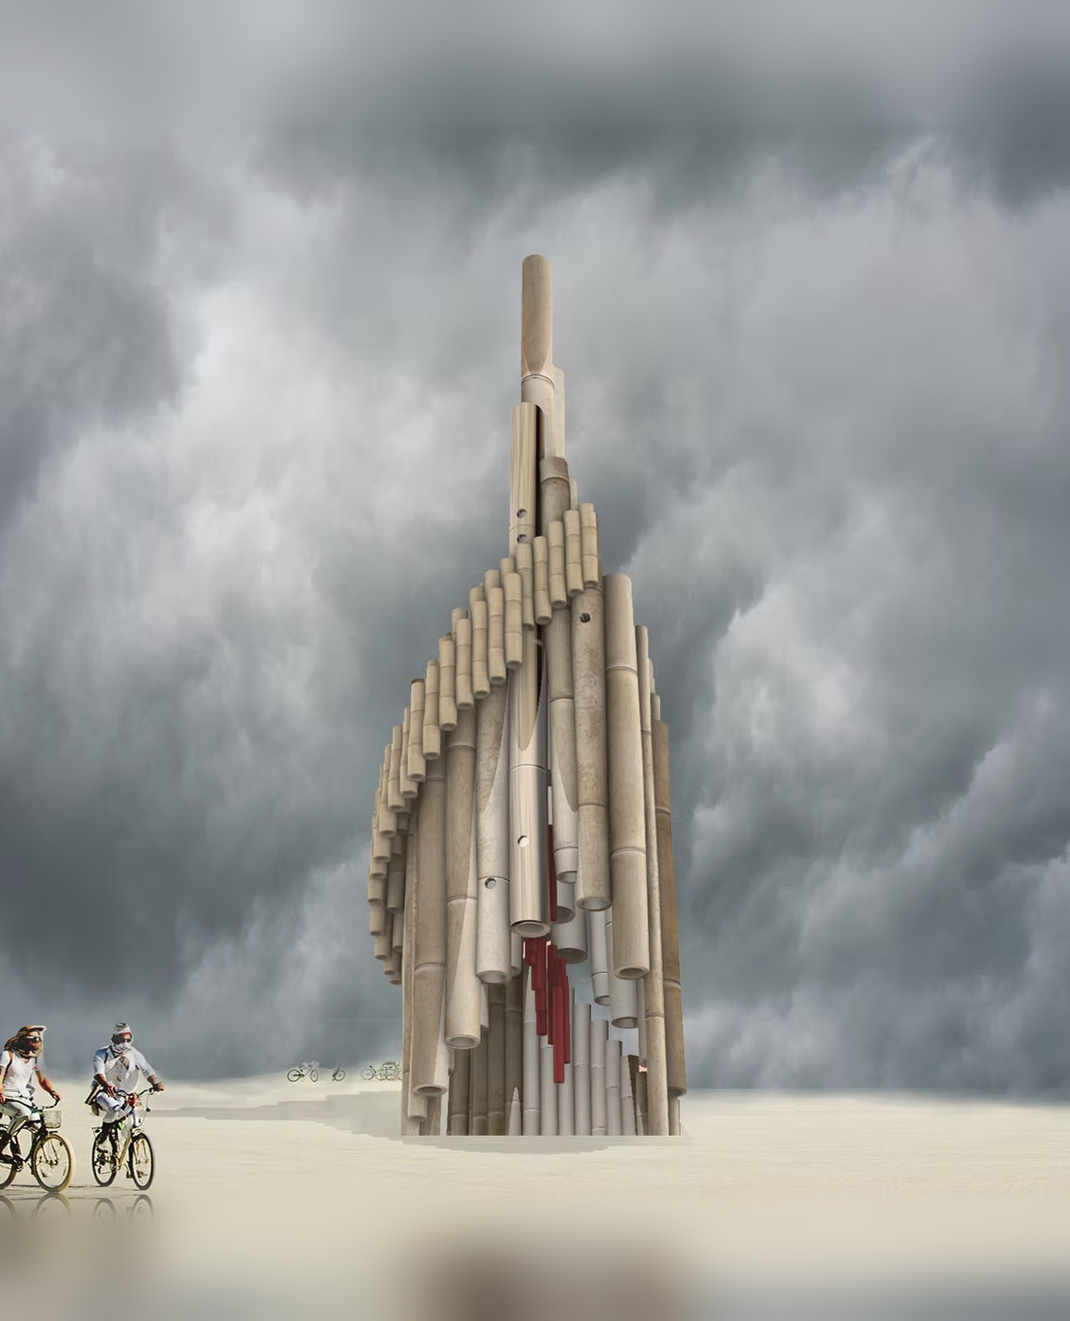
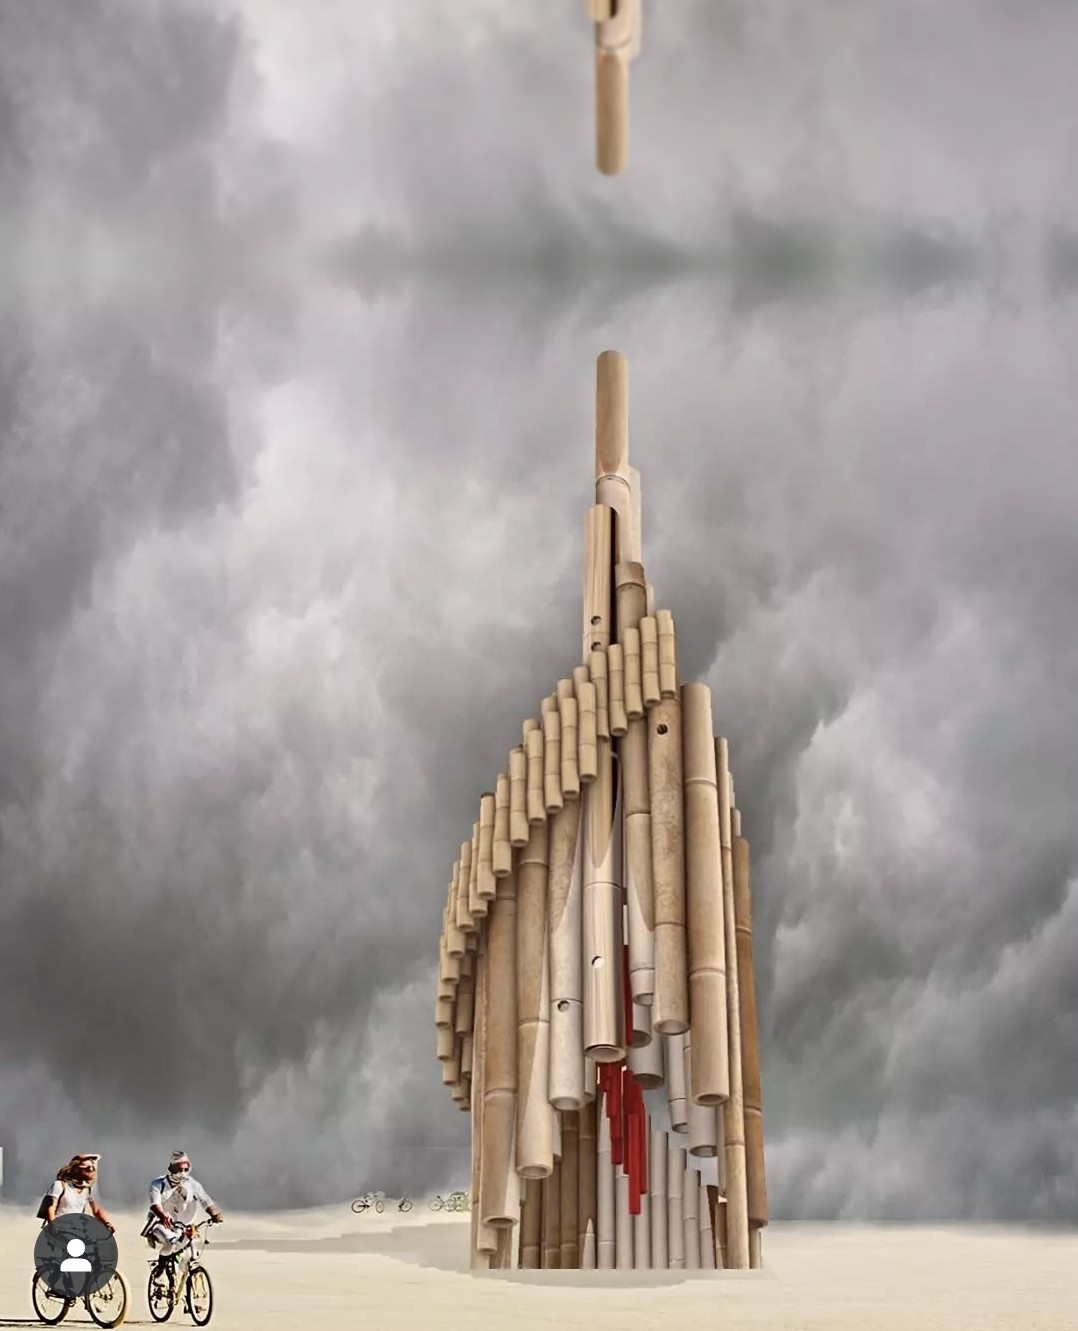
edddits

diff --git a/style.css b/style.css
@@ -2381,3 +2381,50 @@ main.about.project.print .about-text > .full-size-btn { display: block; width: f
 
 /* LATEST 157: Belgrade cover gets the same torn edge */
 .apage img[src="images/belgrade-library-renovation-cover.jpg"]{clip-path:polygon(0.1% 1.3%,1.6% 1.1%,3.2% 0.9%,4.8% 0.7%,6.3% 0.3%,7.9% 0.2%,9.5% 0.2%,11.1% 0.2%,12.7% 0.2%,14.3% 0.2%,15.9% 0.3%,17.5% 0.2%,19.0% 0.1%,20.6% 0.1%,22.2% 0.3%,23.8% 0.3%,25.4% 0.1%,27.0% 0.0%,28.6% 0.4%,30.2% 0.6%,31.7% 0.3%,33.3% 0.7%,34.9% 0.6%,36.5% 0.5%,38.1% 0.9%,39.7% 0.8%,41.3% 1.1%,42.9% 0.9%,44.4% 1.0%,46.0% 0.7%,47.6% 0.4%,49.2% 1.4%,50.8% 1.0%,52.4% 1.2%,54.0% 1.4%,55.6% 1.3%,57.1% 1.3%,58.7% 1.5%,60.3% 1.3%,61.9% 1.0%,63.5% 1.3%,65.1% 1.4%,66.7% 1.1%,68.3% 1.3%,69.8% 0.3%,71.4% 0.3%,73.0% 0.0%,74.6% 0.4%,76.2% 0.5%,77.8% 0.5%,79.4% 0.9%,81.0% 1.2%,82.5% 1.0%,84.1% 1.0%,85.7% 0.7%,87.3% 0.9%,88.9% 0.9%,90.5% 1.0%,92.1% 0.9%,93.7% 0.7%,95.2% 0.9%,96.8% 1.2%,97.9% 0.8%,98.0% 2.4%,98.5% 4.9%,98.7% 7.3%,99.0% 9.8%,99.1% 12.2%,99.2% 14.6%,99.2% 17.1%,99.0% 19.5%,99.1% 22.0%,99.2% 24.4%,98.9% 26.8%,98.9% 29.3%,98.9% 31.7%,99.0% 34.1%,99.2% 36.6%,99.5% 39.0%,99.6% 41.5%,100.0% 43.9%,99.8% 46.3%,99.7% 48.8%,99.4% 51.2%,99.3% 53.7%,99.0% 56.1%,98.9% 58.5%,98.9% 61.0%,98.8% 63.4%,98.5% 65.9%,98.5% 68.3%,98.5% 70.7%,98.4% 73.2%,98.4% 75.6%,98.3% 78.0%,98.6% 80.5%,98.9% 82.9%,99.0% 85.4%,99.3% 87.8%,99.2% 90.2%,99.0% 92.7%,98.8% 95.1%,98.6% 97.6%,98.5% 99.5%,96.8% 99.1%,95.2% 99.2%,93.7% 99.4%,92.1% 99.2%,90.5% 99.2%,88.9% 99.3%,87.3% 99.3%,85.7% 99.4%,84.1% 99.1%,82.5% 99.4%,81.0% 99.3%,79.4% 99.4%,77.8% 99.6%,76.2% 99.7%,74.6% 99.9%,73.0% 99.7%,71.4% 99.7%,69.8% 99.9%,68.3% 99.8%,66.7% 99.9%,65.1% 99.8%,63.5% 99.7%,61.9% 99.7%,60.3% 99.6%,58.7% 99.5%,57.1% 99.8%,55.6% 99.5%,54.0% 99.9%,52.4% 99.5%,50.8% 99.8%,49.2% 100.0%,47.6% 100.0%,46.0% 99.8%,44.4% 99.8%,42.9% 99.6%,41.3% 99.7%,39.7% 99.6%,38.1% 100.0%,36.5% 99.9%,34.9% 99.6%,33.3% 99.6%,31.7% 99.6%,30.2% 99.7%,28.6% 99.5%,27.0% 99.5%,25.4% 99.3%,23.8% 99.6%,22.2% 99.0%,20.6% 99.2%,19.0% 99.1%,17.5% 99.1%,15.9% 99.1%,14.3% 99.3%,12.7% 98.6%,11.1% 98.7%,9.5% 98.8%,7.9% 98.8%,6.3% 99.0%,4.8% 99.3%,3.2% 99.2%,2.2% 99.3%,2.1% 97.6%,2.4% 95.1%,2.9% 92.7%,2.8% 90.2%,2.1% 87.8%,1.9% 85.4%,1.3% 82.9%,1.0% 80.5%,1.2% 78.0%,0.9% 75.6%,1.1% 73.2%,1.3% 70.7%,1.5% 68.3%,1.6% 65.9%,1.5% 63.4%,1.5% 61.0%,1.9% 58.5%,1.9% 56.1%,2.2% 53.7%,2.1% 51.2%,2.2% 48.8%,2.1% 46.3%,1.9% 43.9%,1.5% 41.5%,1.6% 39.0%,1.9% 36.6%,1.7% 34.1%,1.6% 31.7%,2.3% 29.3%,1.5% 26.8%,0.9% 24.4%,0.8% 22.0%,0.6% 19.5%,0.3% 17.1%,0.5% 14.6%,0.7% 12.2%,0.5% 9.8%,0.0% 7.3%,0.0% 4.9%,0.4% 2.4%);}
+
+/* LATEST 158: phone, About photo sits exactly centred left/right (same margin on both sides) */
+@media (max-width: 44rem) {
+  main.about.solo { width: 86vw !important; margin-left: auto !important; margin-right: auto !important; grid-template-columns: minmax(0, 1fr) !important; }
+  .about.solo .about-image { width: 100% !important; min-width: 0; margin: 0 auto !important; }
+  .about.solo .about-image img.about-cutout { width: 100% !important; max-width: 24rem !important; margin-left: auto !important; margin-right: auto !important; }
+}
+
+/* LATEST 159: phone, Belgrade: the two link rows + credits sit with the same line spacing as the project above (the 24px section gap no longer splits them) */
+@media (max-width: 44rem) {
+  #belgrade-library-renovation .about-text .links2 { margin-top: -22.4px !important; }
+}
+
+/* LATEST 160: desktop, Contact: the whole page (photo + email line + form + Send) is pulled up so nothing sits under the footer */
+@media (min-width: 44.01rem) {
+  main.about.contact-page { top: -48px !important; }
+  .contact-page .about-image img.about-photo { height: min(calc(100dvh - var(--header-h) - 7.6rem), 720px) !important; }
+  .contact-page .contact-form textarea { min-height: 0 !important; flex: none !important; height: clamp(4rem, calc(100dvh - 38.5rem), 22rem) !important; }
+  main.about.contact-page { height: calc(100dvh - var(--header-h) - var(--foot-h) - 7.6rem) !important; }
+}
+
+/* LATEST 161: CV reviews - the paper fills each card edge to edge (cover, never a flat patch); desktop: no scroll bar under the reviews (arrows still scroll them) and Expertise/Skills sit lower */
+.cv-page .rev:nth-child(n), .rev:nth-child(n) { background-size: 100% 100%, cover !important; background-repeat: no-repeat !important; }
+@media (min-width: 44.01rem) {
+  .cv-page .rv-track { scrollbar-width: none !important; -ms-overflow-style: none; }
+  .cv-page .rv-track::-webkit-scrollbar { display: none; width: 0; height: 0; }
+  .cv-extra { margin-top: 2.3rem !important; }
+}
+
+/* LATEST 162: phones - horizontal swipes belong to the page (booklets, opened photos, reviews); vertical scrolling stays native */
+@media (max-width: 44rem) {
+  .viewer, .lightbox, .lightbox figure { touch-action: pan-y; }
+  .cv-page .rv-track { touch-action: pan-x pan-y; overscroll-behavior-x: contain; }
+}
+
+/* LATEST 163 (phone only): the drop-down menu opens right under the three lines, and its paper matches the review cards (same crumpled sheet, soft shadow) */
+@media (max-width: 44rem) {
+  .site-header nav, .site-header nav[aria-label] {
+    top: calc(0.65rem + 0.4rem + 2.07rem + 0.3rem) !important; right: 0.45rem !important; left: auto !important;
+    background: var(--pl), url("images/paper-cream.webp") 20% 30% / cover no-repeat #f1ece4 !important;
+    background-size: 100% 100%, cover !important;
+    box-shadow: 0 3px 6px rgba(60,40,30,0.22) !important;
+  }
+}
+
+/* LATEST 164: a simple light grey line under the Deadbeat Designs title bar (no change to the layout) */
+.site-header { box-shadow: 0 1px 0 #d9d9d9 !important; }

diff --git a/swipe.js b/swipe.js
@@ -15,3 +15,24 @@
     if (a && a.href) window.location.href = a.href;
   }, { passive: true });
 })();
+
+/* Phones: in an opened photo (Photography, Algo(g)rave) swipe left = next photo, swipe right = previous photo. */
+(function () {
+  if (!document.querySelector('.lightbox')) return;
+  var x0 = 0, y0 = 0, t0 = 0, on = false;
+  function open() { return document.querySelector('.lightbox:target'); }
+  document.addEventListener('touchstart', function (e) {
+    on = e.touches.length === 1 && !!open();
+    if (!on) return;
+    x0 = e.touches[0].clientX; y0 = e.touches[0].clientY; t0 = Date.now();
+  }, { passive: true });
+  document.addEventListener('touchend', function (e) {
+    var lb = open();
+    if (!on || !lb || !e.changedTouches.length) return;
+    on = false;
+    var dx = e.changedTouches[0].clientX - x0, dy = e.changedTouches[0].clientY - y0;
+    if (Date.now() - t0 > 800 || Math.abs(dx) < 50 || Math.abs(dx) < Math.abs(dy) * 1.3) return;
+    var a = lb.querySelector(dx < 0 ? '.lb-next' : '.lb-prev');
+    if (a) window.location.hash = a.getAttribute('href');
+  }, { passive: true });
+})();

diff --git a/book.js b/book.js
@@ -128,13 +128,13 @@
       else if (k === 'ArrowLeft') { prev(); }
     });
 
-    var x0 = null;
-    root.addEventListener('touchstart', function (e) { x0 = e.touches[0].clientX; }, { passive: true });
+    var x0 = null, y0 = 0;
+    root.addEventListener('touchstart', function (e) { x0 = e.touches[0].clientX; y0 = e.touches[0].clientY; }, { passive: true });
     root.addEventListener('touchend', function (e) {
-      if (x0 === null) return;
-      var dx = e.changedTouches[0].clientX - x0; x0 = null;
-      if (Math.abs(dx) > 40) { if (dx < 0) next(); else prev(); }
-    });
+      if (x0 === null || !e.changedTouches.length) return;
+      var dx = e.changedTouches[0].clientX - x0, dy = e.changedTouches[0].clientY - y0; x0 = null;
+      if (Math.abs(dx) > 40 && Math.abs(dx) > Math.abs(dy) * 1.2) { if (dx < 0) next(); else prev(); }
+    }, { passive: true });
 
     leaves.forEach(function (leaf, i) { if (i < s) { leaf.classList.add('flipped'); leaf.style.zIndex = i + 1; } }); // already-turned leaves start turned, no animation
     root.classList.add('ready');

diff --git a/auris-interna.html b/auris-interna.html
@@ -70,7 +70,7 @@
         <li><img src="images/auris-interna-01.jpg" alt="Render of a tall spiral tower of bamboo poles on a cracked white desert floor, seen from above"></li>
         <li><img src="images/auris-interna-02.jpg" alt="The bamboo tower from another angle, with a circular opening at its base"></li>
         <li><img src="images/auris-interna-03.jpg" alt="Low view up the tower of tall bamboo and shorter cut bamboo segments against a blue sky"></li>
-        <li><img src="images/auris-interna-04.jpg" alt="The bamboo tower under a stormy sky, with two people on bicycles in the desert"></li>
+        <li><img src="images/auris-interna-04.jpg" alt="The bamboo tower under a stormy sky, with two people on bicycles in the desert (back cover)"></li>
     </ol>
   </main>
 

diff --git a/algograve.html b/algograve.html
@@ -155,5 +155,6 @@
     <p>&copy; 2026 Calderwood Creations LLC</p>
   </footer>
 
+  <script src="swipe.js"></script>
 </body>
 </html>

diff --git a/photography.html b/photography.html
@@ -229,5 +229,6 @@
     <p>&copy; 2026 Calderwood Creations LLC</p>
   </footer>
 
+  <script src="swipe.js"></script>
 </body>
 </html>
